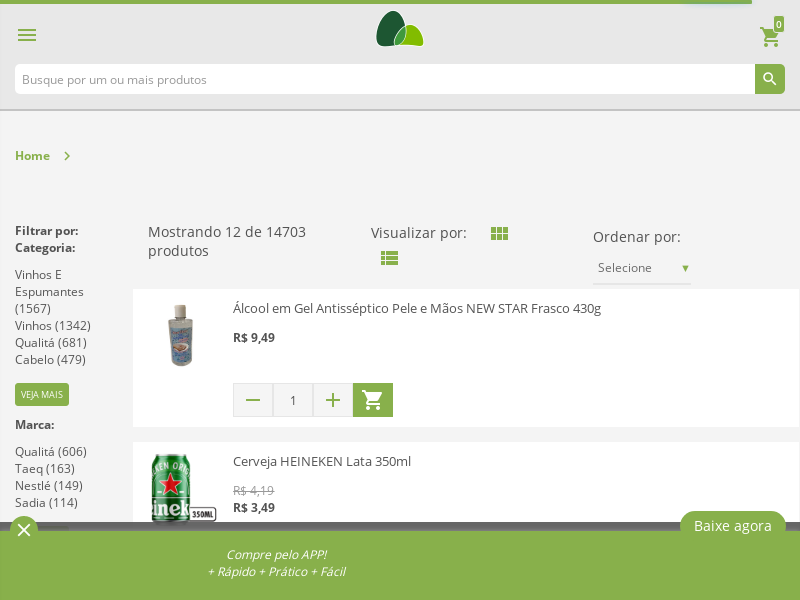
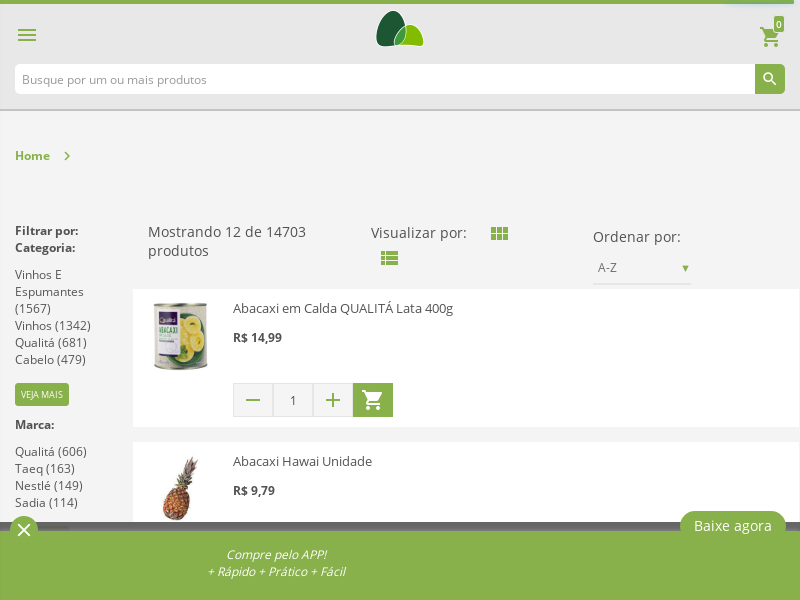
Scrape all loaded products info

diff --git a/app.js b/app.js
@@ -2,26 +2,37 @@ const puppeteer = require('puppeteer');
 
 const App = async () => {
   // Launch browser and go to Pão de Açúcar's page
-  const browser = await puppeteer.launch();
+  const browser = await puppeteer.launch({ headless: true });
   const page = await browser.newPage();
-  await page.goto('https://www.paodeacucar.com/');
-
-  // Go to Search page
-  const [ searchButton ] = await page.$x('//*[@id="light-header"]/div[5]/div[2]/div/div[2]/search/div/form/div/div/div/span/button');
-  await searchButton.click();
+  await page.goto('https://www.paodeacucar.com/busca?qt=12&s=title&p=1&gt=list');
   await page.waitFor(5000);
 
-  // Getting a product name and price
-  const productNameEl = await page.$('p.product-description');
-  const productNameTxt = await productNameEl.getProperty('textContent');
-  const productNameFull = await productNameTxt.jsonValue();
-  const productName = productNameFull.trim();
+  // Getting all products names and prices
+  let productsData = await page.evaluate(() => {
+    let products = [];
+    // Get all products elements
+    let prodsElms = document.querySelectorAll('div.thumbnail');
+    // Loop over product and get its data
+    prodsElms.forEach(prodEl => {
+      let prodJson = {};
+      try {
+        prodJson.name = prodEl.querySelector('p.product-description').textContent.trim();
+        if (prodEl.querySelector('p.discount-price')) {
+          prodJson.oldPrice = prodEl.querySelector('s.ng-binding').textContent.trim();
+          prodJson.discountPrice = prodEl.querySelector('p.discount-price').textContent.trim();
+        } else {
+          prodJson.price = prodEl.querySelector('p.normal-price').textContent.trim();
+        }
+      }
+      catch (err) {
 
-  const productPriceEl = await page.$('p.normal-price');
-  const productPriceTxt = await productPriceEl.getProperty('textContent');
-  const productPriceFull = await productPriceTxt.jsonValue();
-  const productPrice = productPriceFull.trim();
-  console.log({productName, productPrice});
+      }
+      products.push(prodJson);
+    });
+    return products;
+  })
+
+  console.dir(productsData);
 
   // Testing with screenshot
   await page.screenshot({path: 'test.png'});
